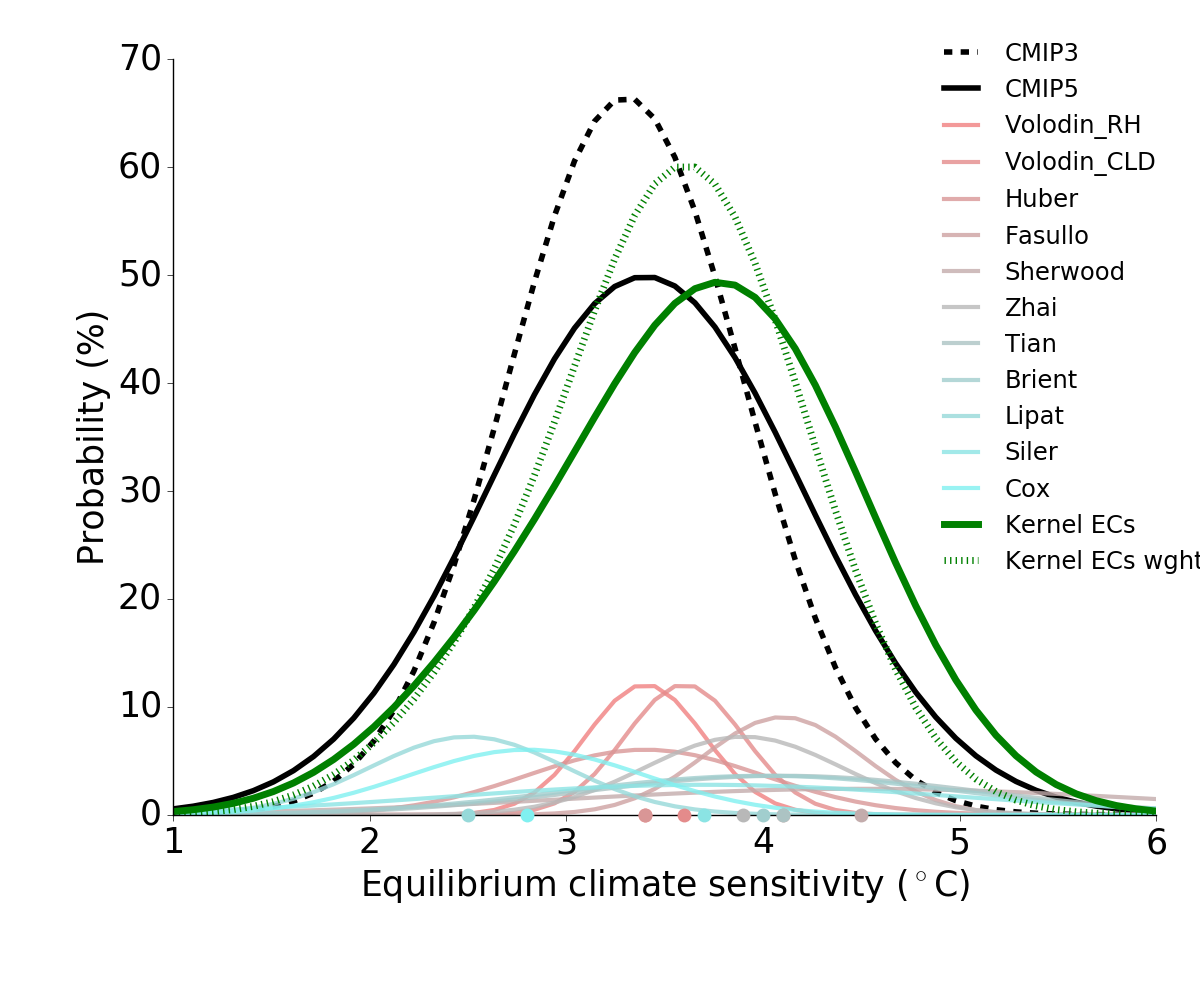
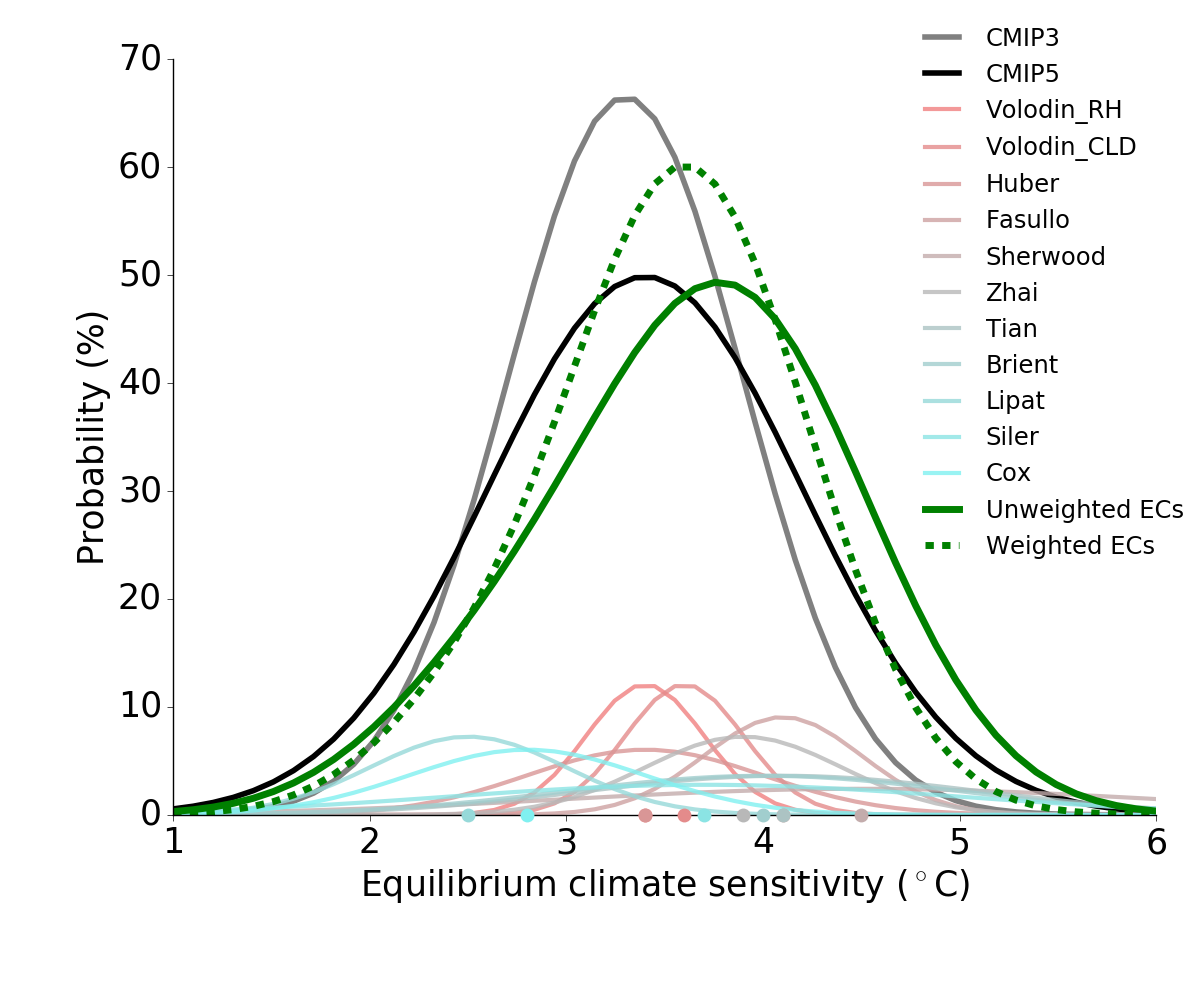
final

diff --git a/src/plot_PDF_ECS.py b/src/plot_PDF_ECS.py
@@ -75,7 +75,7 @@ ax  = fig.add_subplot(111)
 
 bins = x
 hist3  = norm.pdf(x,loc=mean[0],scale=std[0])
-ax.plot(bins,100.*hist3,'k--', lw=lw-1, label=names[0])
+ax.plot(bins,100.*hist3,'-',color='gray', lw=lw-1, label=names[0])
 
 hist3  = norm.pdf(x,loc=mean[1],scale=std[1])
 ax.plot(bins,100.*hist3,'k-' , lw=lw-1, label=names[1])
@@ -116,29 +116,34 @@ values = mean[listec]
 
 # Unweighted kernel distribution
 kernel = stats.gaussian_kde(values,bw_method=bdw);Z=kernel(bins)#;plt.plot(bins,Z);plt.show()
-ax.plot(bins, 100.*Z,'g-', lw=lw, label='Kernel ECs')
-clevels = .6; ci_l,ci_u = tl.confidence_intervals(Z,bins,clevels)
+ax.plot(bins, 100.*Z,'g-', lw=lw, label='Unweighted ECs')
+clevels = .9; ci_l,ci_u = tl.confidence_intervals(Z,bins,clevels)
 print  'Confidence ECs : ',ci_l,ci_u,np.mean(values),bins[Z==np.max(Z)]
-
+print kernel.covariance
 # Weighted kernel distribution
 weights1       = np.exp(std[listec]*-1.)
 weights1       = weights1/np.nansum(weights1)
 w              = np.exp(std[listec]*-1. - np.nanmax(std[listec]*-1.))
 weights2       = w/np.nansum(w);
+#weights3       = (1.0/values)*1.0/(pow(std[listec],2.))
 weights3       = 1.0/(pow(std[listec],2.))
 weights3       = weights3/np.nansum(weights3)
 weights4       = 1.0/(pow(std[listec],2.))/np.sum(1.0/(pow(std[listec],2.)))
 weights4       = weights4/np.nansum(weights4)
 
-print std[listec],weights1,weights2,weights3,weights4
+#print std[listec],weights1,weights2,weights3,weights4
+
+# Using 1/(sigma^2) as an relative optimal weight.
 weights        = weights3
-average        = np.average(values,weights=weights)
-print np.average(values),average
-print np.sum((values-np.mean(values))**2)/pow(len(listec),2.0),np.average((values-average)**2, weights=weights)
+
+#average        = np.average(values,weights=weights)
+#print np.average(values),average
+#print np.average((values-np.average(values))**2),np.average((values-average)**2, weights=weights)
+#print np.sum((values-np.mean(values))**2)/pow(len(listec),1.0)
 
 kernel = stats.gaussian_kde(values,bw_method=bdw,weights=weights);Z=kernel(bins)#;plt.plot(bins,Z);plt.show()
-ax.plot(bins, 100.*Z,'g:', lw=lw, label='Kernel ECs wght')
-clevels = .6; ci_l,ci_u = tl.confidence_intervals(Z,bins,clevels)
+ax.plot(bins, 100.*Z,'g--', lw=lw, label='Weighted ECs')
+clevels = .9; ci_l,ci_u = tl.confidence_intervals(Z,bins,clevels)
 print  'Confidence ECs weighted : ',ci_l,ci_u,np.mean(values),bins[Z==np.max(Z)]
 
 
@@ -146,7 +151,7 @@ print  'Confidence ECs weighted : ',ci_l,ci_u,np.mean(values),bins[Z==np.max(Z)]
 #plt.legend(bbox_to_anchor=(0.6, 0.70, 0.42, .102), loc=3,
 #           ncol=2, mode="expand", borderaxespad=0., frameon=False,
 #           fontsize=fts*0.7)
-plt.legend(frameon=False,bbox_to_anchor=(0.65, 0.95, 0.42, .102),
+plt.legend(frameon=False,bbox_to_anchor=(0.63, 0.97, 0.42, .102),
            fontsize=fts*0.7)
 
 tl.adjust_spines(ax, ['left', 'bottom'])
